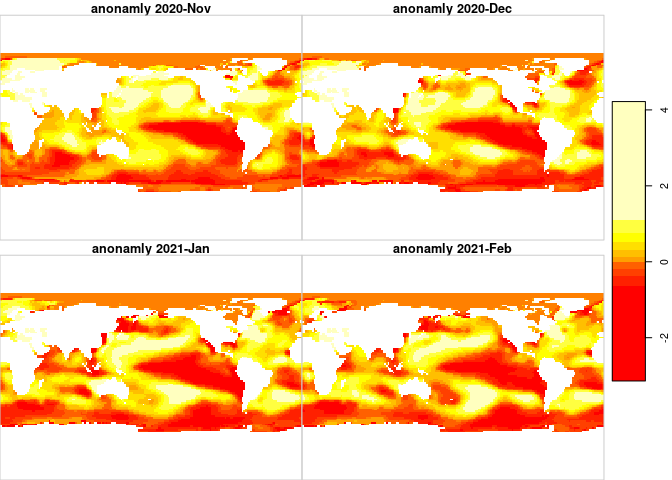
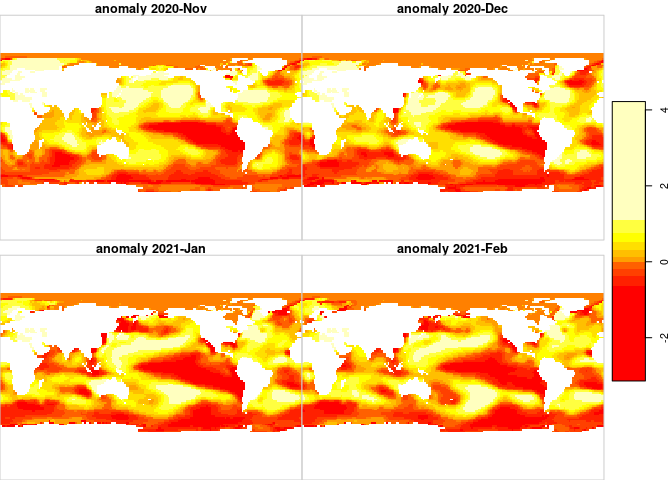
fix typos

diff --git a/README.md b/README.md
@@ -130,9 +130,9 @@ s
 If you are developing a local repository of the data, you can use
 built-in capabilities of `fetch_ersst()`. Each layer is saved separately
 as either `ersst.vv.YYYYmm.tif` or `erssta.vv.YYYYmm.tif`. Returned is a
-database of the fetched-and-stored contents. Note that pass in the
-available online database listing; this just saves the time needed to
-repeat the query.
+database of the fetched-and-stored contents. Note that you can pass in
+the available online database listing; this just saves the time needed
+to repeat the query.
 
 ``` r
 root_path <- "~/ersst_data"
@@ -143,19 +143,19 @@ db <- fetch_ersst(dates, version = 'v5', path = root_path, verbose = TRUE, avail
     ## fetch_ersst: building request list
     ## fetch_ersst: pooling databases
     ## download_ersst: downloading https://www.ncei.noaa.gov/pub/data/cmb/ersst/v5/netcdf/ersst.v5.202011.nc 
-    ## download_ersst: to /tmp/RtmpWRl7pj/ersst.v5.202011.nc 
+    ## download_ersst: to /tmp/RtmpsDLdLE/ersst.v5.202011.nc 
     ## fetch_ersst: writing file ~/ersst_data/v5/2020/ersst.v5.202011.tif 
     ## fetch_ersst: writing file ~/ersst_data/v5/2020/erssta.v5.202011.tif 
     ## download_ersst: downloading https://www.ncei.noaa.gov/pub/data/cmb/ersst/v5/netcdf/ersst.v5.202012.nc 
-    ## download_ersst: to /tmp/RtmpWRl7pj/ersst.v5.202012.nc 
+    ## download_ersst: to /tmp/RtmpsDLdLE/ersst.v5.202012.nc 
     ## fetch_ersst: writing file ~/ersst_data/v5/2020/ersst.v5.202012.tif 
     ## fetch_ersst: writing file ~/ersst_data/v5/2020/erssta.v5.202012.tif 
     ## download_ersst: downloading https://www.ncei.noaa.gov/pub/data/cmb/ersst/v5/netcdf/ersst.v5.202101.nc 
-    ## download_ersst: to /tmp/RtmpWRl7pj/ersst.v5.202101.nc 
+    ## download_ersst: to /tmp/RtmpsDLdLE/ersst.v5.202101.nc 
     ## fetch_ersst: writing file ~/ersst_data/v5/2021/ersst.v5.202101.tif 
     ## fetch_ersst: writing file ~/ersst_data/v5/2021/erssta.v5.202101.tif 
     ## download_ersst: downloading https://www.ncei.noaa.gov/pub/data/cmb/ersst/v5/netcdf/ersst.v5.202102.nc 
-    ## download_ersst: to /tmp/RtmpWRl7pj/ersst.v5.202102.nc 
+    ## download_ersst: to /tmp/RtmpsDLdLE/ersst.v5.202102.nc 
     ## fetch_ersst: writing file ~/ersst_data/v5/2021/ersst.v5.202102.tif 
     ## fetch_ersst: writing file ~/ersst_data/v5/2021/erssta.v5.202102.tif
 
@@ -201,7 +201,7 @@ sub_filenames <- compose_filename(sub_db, root_path)
 ss <- read_stars(sub_filenames, along = "band")
 breaks <- 11
 plot(ss, 
-     main = format(sub_db$date, "anonamly %Y-%b"),
+     main = format(sub_db$date, "anomaly %Y-%b"),
      col = heat.colors(breaks))
 ```
 
